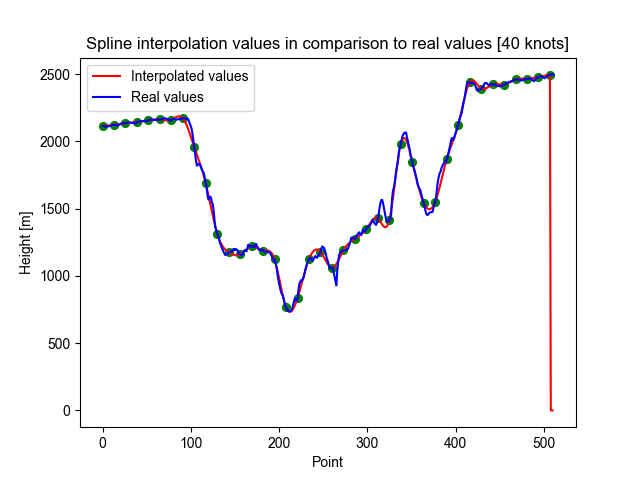
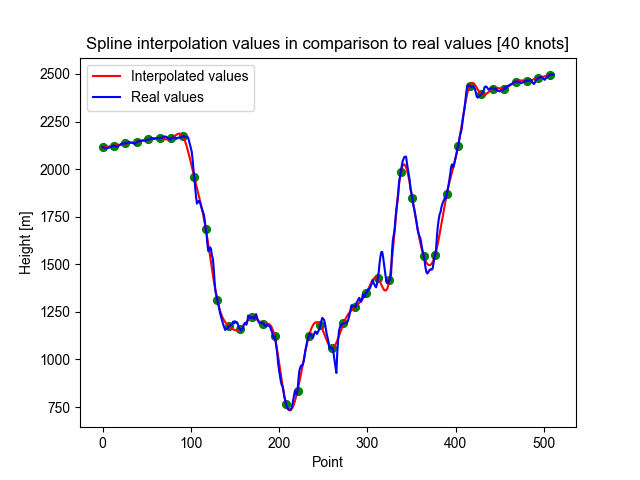
Last fucking fix i HopE

diff --git a/methods/spline.py b/methods/spline.py
@@ -42,7 +42,7 @@ def spline(original_data, knots_number):
     coefficients = numpy.linalg.solve(A, b)
 
     values = []
-    for i in range(len(original_data) - 1):
+    for i in range(int(data[len(data) - 1][0] + 1)):
         for j in range(len(data) - 1):
             value = 0
             if data[j][0] <= i <= data[j + 1][0]:
